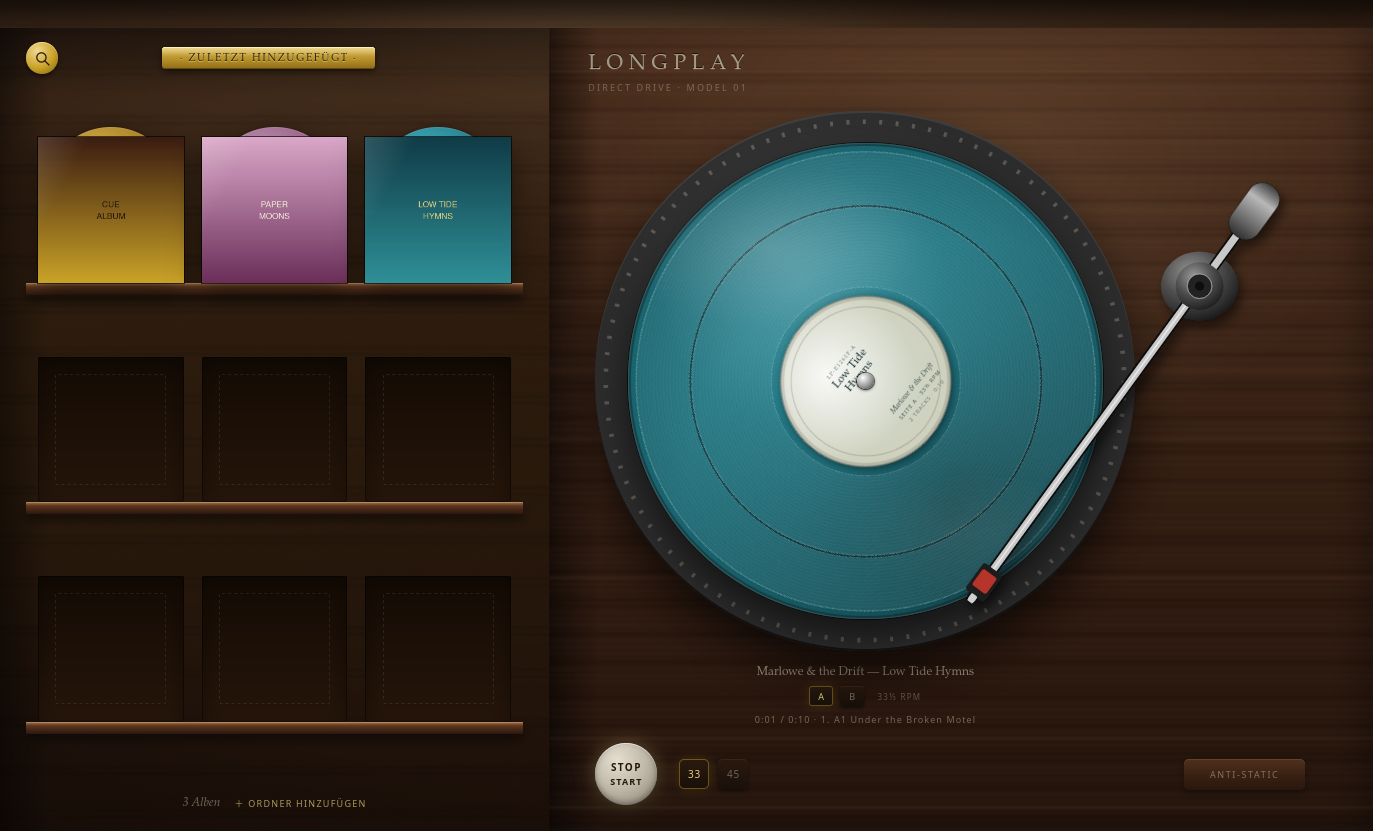
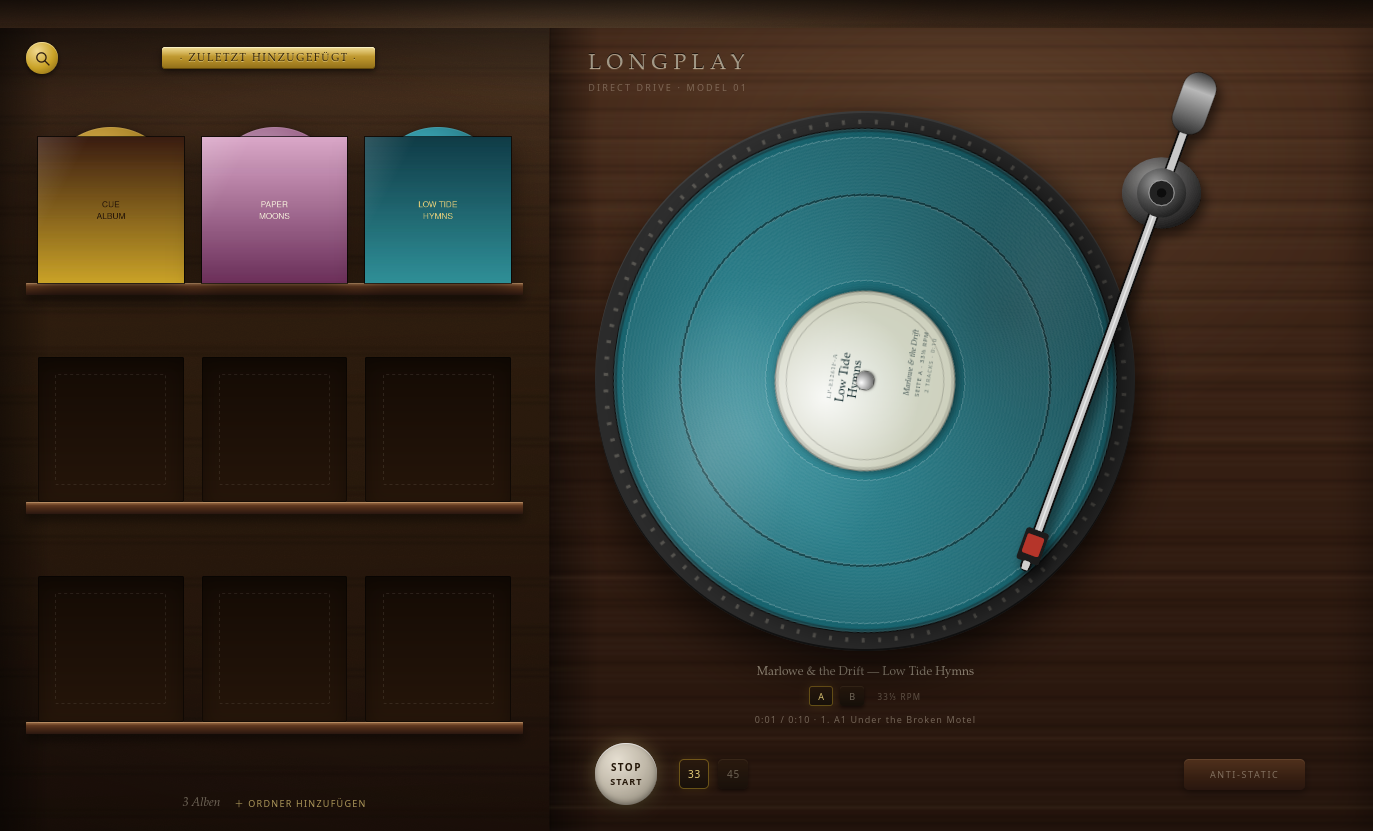
Raise tonearm, enlarge record, spin the whole platter
- pivot moved high up-right; stylus now lands on the groove bands
- 12-inch record covers more of the platter (3.5% inset)
- rim, strobe, mat and record rotate as one platter
- space toggles playback
- 91 tests, clippy and svelte-check clean

Changed region(s): [[0.4283, 0.0903, 0.9483, 0.7822]]

diff --git a/src/lib/components/Deck.svelte b/src/lib/components/Deck.svelte
@@ -31,7 +31,7 @@
     !!playback && duration > 0 && !playback.playing && position >= duration - 0.08,
   );
 
-  const REST_PHI = 1.26;
+  const REST_PHI = 1.5;
 
   let stageEl: HTMLDivElement | undefined = $state();
   let platterEl: HTMLDivElement | undefined = $state();
@@ -64,11 +64,11 @@
   });
 
   const REFERENCE_MM = 151;
-  const mmToPx = $derived((platterRadius * 0.94) / REFERENCE_MM);
+  const mmToPx = $derived((platterRadius * 0.965) / REFERENCE_MM);
   const pivotDistance = $derived(playback?.pivotDistance ?? 211);
   const armLength = $derived(playback?.armLength ?? 230);
-  // The pivot sits up-right of the spindle, like a real deck.
-  const PIVOT_ANGLE = -0.34;
+  // The pivot sits high up-right of the spindle, like a real deck.
+  const PIVOT_ANGLE = -0.62;
   const pivotX = $derived(centerX + pivotDistance * mmToPx * Math.cos(PIVOT_ANGLE));
   const pivotY = $derived(centerY + pivotDistance * mmToPx * Math.sin(PIVOT_ANGLE));
   const armLengthPx = $derived(armLength * mmToPx);
@@ -99,6 +99,33 @@
   });
 
   let armPhi = $state(REST_PHI);
+  let platterAngle = $state(0);
+  let platterVelocity = 0;
+
+  $effect(() => {
+    const active = playing || dragging;
+    const target = active ? (Math.PI * 2) / (rpmValue === 45 ? 1.333 : 1.8) : 0;
+    let frame = 0;
+    let last = performance.now();
+
+    const loop = (now: number) => {
+      const dt = Math.min(0.05, (now - last) / 1000);
+      last = now;
+      const tau = target > platterVelocity ? 0.5 : 2.4;
+      platterVelocity +=
+        (target - platterVelocity) * (1 - Math.exp(-dt / tau));
+      untrack(() => {
+        if (platterVelocity > 1e-4 || target > 0) {
+          platterAngle =
+            (platterAngle + platterVelocity * dt) % (Math.PI * 2);
+        }
+      });
+      frame = requestAnimationFrame(loop);
+    };
+
+    frame = requestAnimationFrame(loop);
+    return () => cancelAnimationFrame(frame);
+  });
 
   $effect(() => {
     const target = statePhi;
@@ -218,27 +245,32 @@
         onpointercancel={onPointerUp}
         onpointerleave={onPointerLeave}
       >
-        <div class="rim"></div>
-        <svg class="strobe" viewBox="0 0 400 400" aria-hidden="true">
-          <circle
-            cx="200"
-            cy="200"
-            r="192"
-            fill="none"
-            stroke="rgba(239,230,207,0.24)"
-            stroke-width="3.4"
-            stroke-dasharray="2.2 10"
-          />
-        </svg>
+        <div
+          class="platter-spin"
+          style:transform={`rotate(${platterAngle}rad)`}
+        >
+          <div class="rim"></div>
+          <svg class="strobe" viewBox="0 0 400 400" aria-hidden="true">
+            <circle
+              cx="200"
+              cy="200"
+              r="192"
+              fill="none"
+              stroke="rgba(239,230,207,0.24)"
+              stroke-width="3.4"
+              stroke-dasharray="2.2 10"
+            />
+          </svg>
 
-        {#if album && side}
-          {#key `${album.id}:${side.label}`}
-            <Vinyl {album} {side} {grooves} spinning={playing || dragging} />
-          {/key}
-        {:else}
-          <div class="mat"></div>
-          <div class="spindle"></div>
-        {/if}
+          {#if album && side}
+            {#key `${album.id}:${side.label}`}
+              <Vinyl {album} {side} {grooves} />
+            {/key}
+          {:else}
+            <div class="mat"></div>
+            <div class="spindle"></div>
+          {/if}
+        </div>
       </div>
 
       {#if album && side}
@@ -531,6 +563,13 @@
 
   .platter.dragging {
     cursor: grabbing;
+  }
+
+  .platter-spin {
+    position: absolute;
+    inset: 0;
+    border-radius: 50%;
+    will-change: transform;
   }
 
   .strobe {

diff --git a/src/lib/components/Vinyl.svelte b/src/lib/components/Vinyl.svelte
@@ -1,14 +1,12 @@
 <script lang="ts">
-  import { untrack } from "svelte";
   import type { Album, GrooveBand, Side } from "$lib/types";
   import { formatDuration } from "$lib/library.svelte";
 
   let {
     album,
     side,
-    spinning = false,
     grooves = [],
-  }: { album: Album; side: Side; spinning?: boolean; grooves?: GrooveBand[] } = $props();
+  }: { album: Album; side: Side; grooves?: GrooveBand[] } = $props();
 
   const sideDuration = $derived(
     side.tracks.reduce((total, track) => total + track.duration + track.pregap, 0),
@@ -18,32 +16,6 @@
   );
   const rpm = $derived(side.rpm === "45" ? "45" : "33⅓");
 
-  let discAngle = $state(0);
-  let velocity = 0;
-
-  $effect(() => {
-    const target = spinning
-      ? (Math.PI * 2) / (side.rpm === "45" ? 1.333 : 1.8)
-      : 0;
-    let frame = 0;
-    let last = performance.now();
-
-    const loop = (now: number) => {
-      const dt = Math.min(0.05, (now - last) / 1000);
-      last = now;
-      const tau = target > velocity ? 0.5 : 2.4;
-      velocity += (target - velocity) * (1 - Math.exp(-dt / tau));
-      untrack(() => {
-        if (velocity > 1e-4 || target > 0) {
-          discAngle = (discAngle + velocity * dt) % (Math.PI * 2);
-        }
-      });
-      frame = requestAnimationFrame(loop);
-    };
-
-    frame = requestAnimationFrame(loop);
-    return () => cancelAnimationFrame(frame);
-  });
 
   let canvas: HTMLCanvasElement | undefined = $state();
   let host: HTMLDivElement | undefined = $state();
@@ -138,11 +110,7 @@
   style:--label={album.palette.label}
   style:--ink={album.palette.dark}
 >
-  <div
-    class="disc-layer"
-    style:transform={`rotate(${discAngle}rad)`}
-    aria-hidden="true"
-  >
+  <div class="disc-layer" aria-hidden="true">
     <div class="grooves"></div>
     <canvas class="grooves-canvas" bind:this={canvas} aria-hidden="true"></canvas>
 
@@ -167,7 +135,7 @@
 <style>
   .vinyl {
     position: absolute;
-    inset: 6%;
+    inset: 3.5%;
     border-radius: 50%;
     background:
       radial-gradient(circle at 36% 28%, rgba(255, 255, 255, 0.14), transparent 32%),
@@ -188,7 +156,7 @@
   }
 
   .vinyl.single {
-    inset: 24.5%;
+    inset: 23%;
   }
 
   .vinyl.single .label {

diff --git a/src/routes/+page.svelte b/src/routes/+page.svelte
@@ -82,7 +82,23 @@
         sideIndex = state.sideIndex;
       }
     }, 250);
-    return () => window.clearInterval(timer);
+
+    const onKey = (event: KeyboardEvent) => {
+      const target = event.target as HTMLElement | null;
+      if (target && (target.tagName === "INPUT" || target.tagName === "TEXTAREA")) {
+        return;
+      }
+      if (event.code === "Space") {
+        event.preventDefault();
+        toggle();
+      }
+    };
+    window.addEventListener("keydown", onKey);
+
+    return () => {
+      window.clearInterval(timer);
+      window.removeEventListener("keydown", onKey);
+    };
   });
 
   function cycleSort() {

diff --git a/PLAN.md b/PLAN.md
@@ -382,6 +382,7 @@ auf die ersten beiden Ausgänge, weitere Kanäle bleiben still. Mono wird herunt
 - [x] Seiten-Flip-Animation und 7″-Darstellung
 - [ ] Locked-Groove-Thump am Seitenende
 - [ ] Ästhetik-Pass: Abrieb, Matrix-Ritzung, Staub, Licht, Hüllen-Animation, Gatefold
+- [x] Tonarmhöhe/Drehpunkt, größere Platte, Teller und Platte drehen gemeinsam
 
 **Abnahme:** Armwinkel und Rillenposition stimmen überein, Cueing sitzt auf dem
 gewählten Track, Seitenwechsel und Flip laufen rund, 60 fps. Kein Scratch.

diff --git a/README.md b/README.md
@@ -46,7 +46,7 @@ npm run tauri dev
 Bedienung: Album anklicken legt es auf, `START/STOP` startet, die Tabs `A`/`B`
 wechseln die Seite, `33`/`45` ändern die Drehzahl (und damit Tonhöhe und Tempo).
 Auf die Platte ziehen setzt die Nadel an der Stelle ab; beim Überfahren zeigt ein
-kleines Etikett den Track unter dem Zeiger.
+kleines Etikett den Track unter dem Zeiger. `Leertaste` startet und stoppt.
 
 Zum schnellen UI-Test ohne Ordnerdialog scannt `LONGPLAY_SCAN_DIR` beim Start:
 
